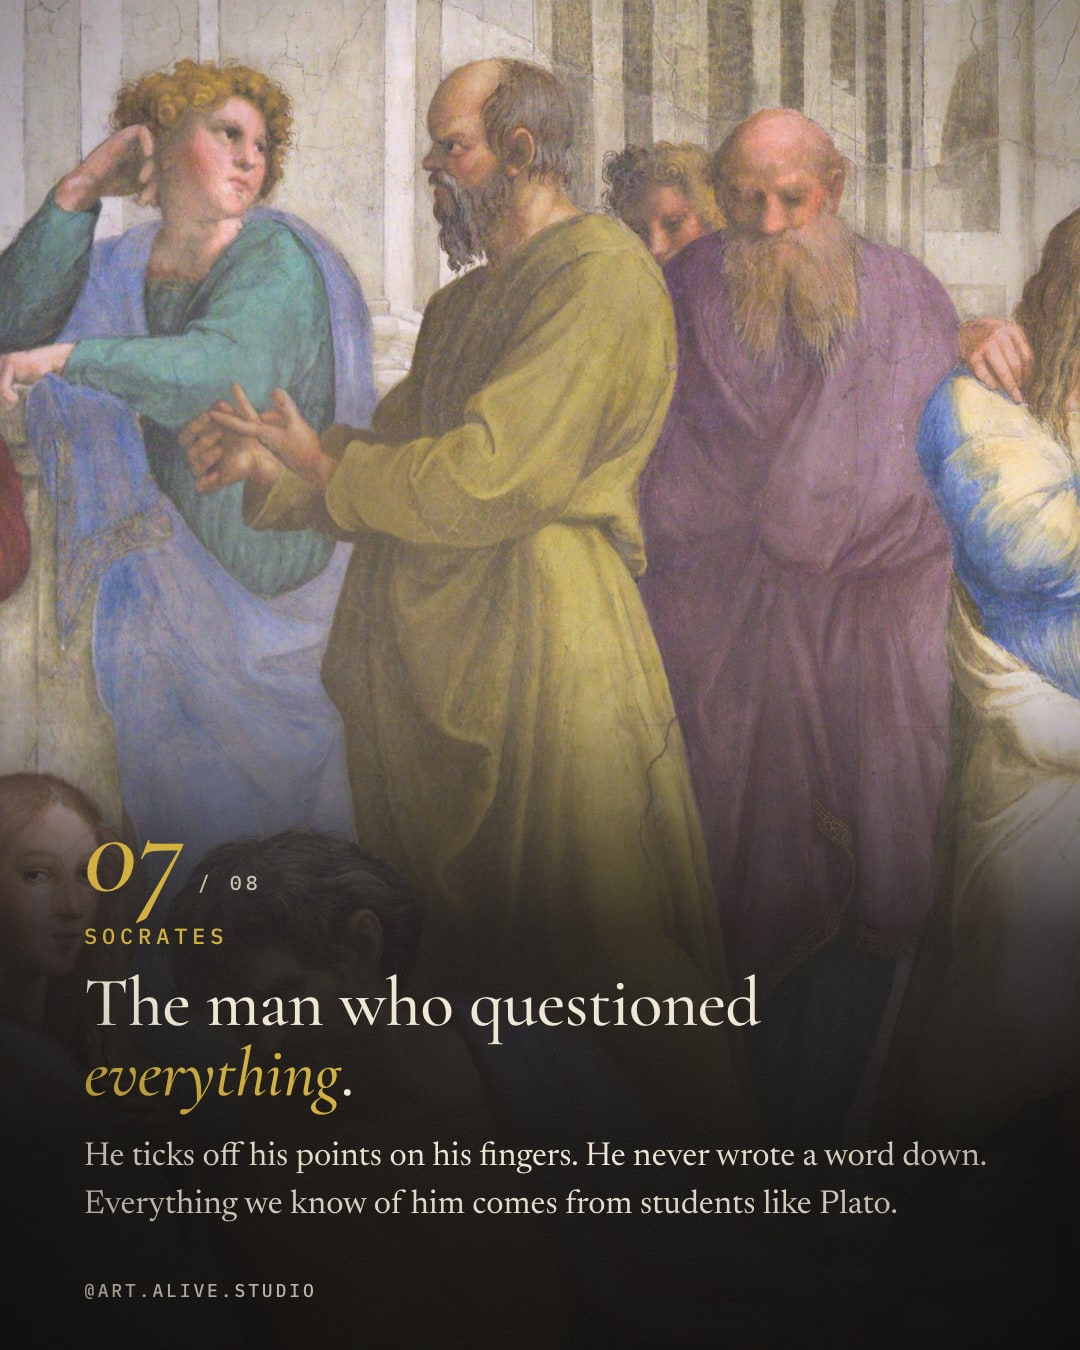
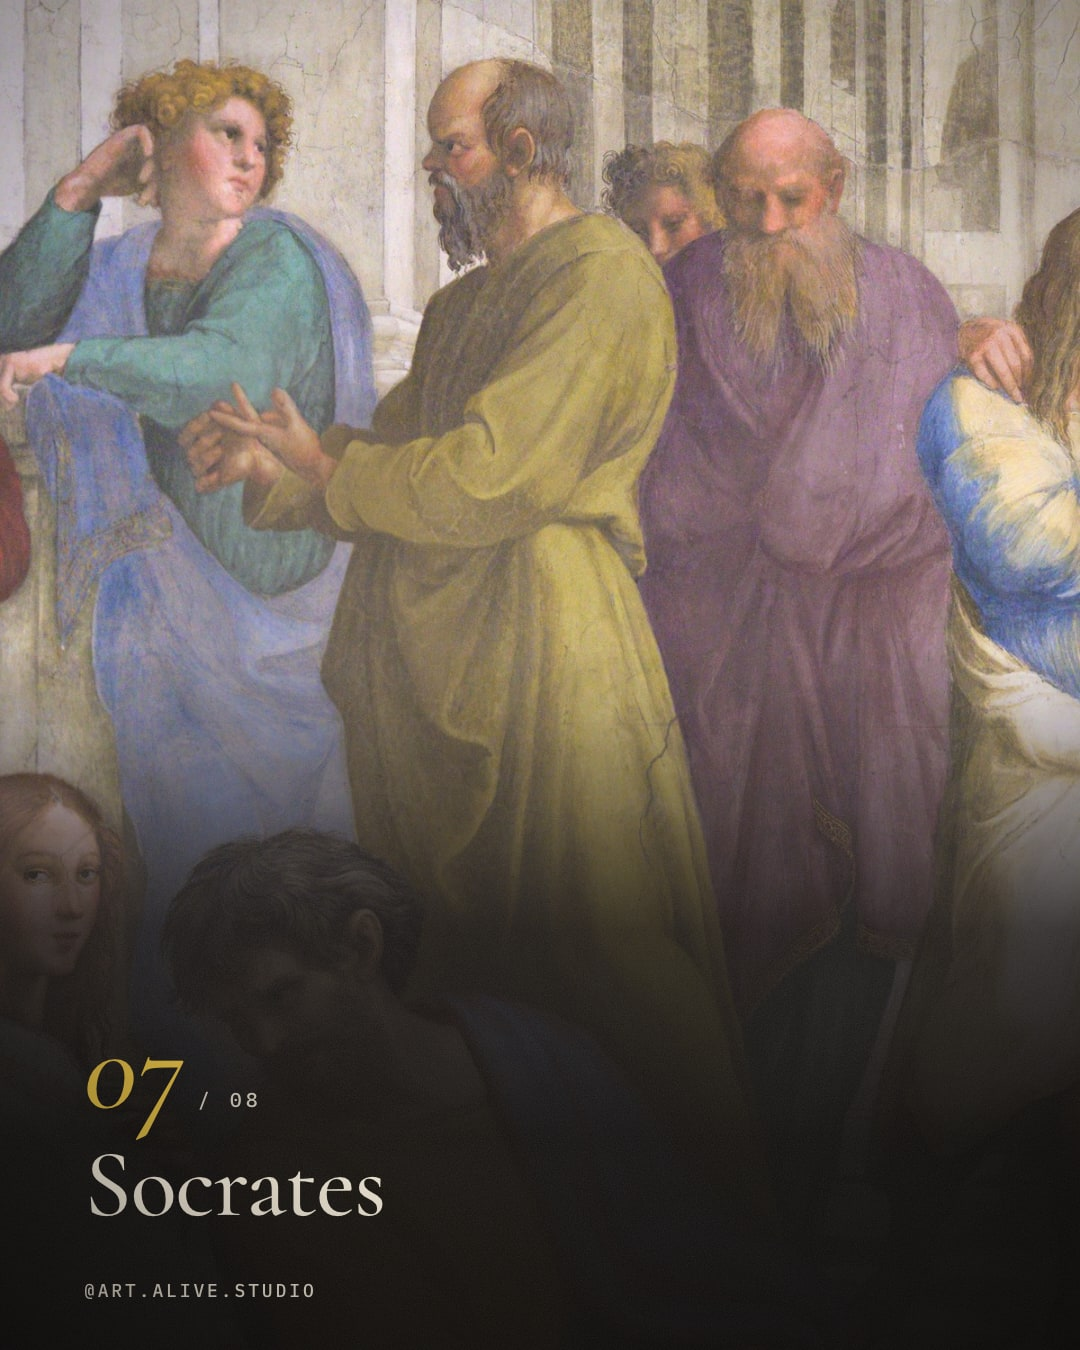
School of Athens: names-only figure slides, slide 2 hook, crowd above the cover text, per-slide captions (hub shows them per slide and puts them in caption.txt)

Changed region(s): [[0.0611, 0.6222, 0.9167, 0.9022], [0.3361, 0.7156, 0.7028, 0.7778]]

diff --git a/channels/art-history/carousels/06-raphael-school-of-athens/slides.html b/channels/art-history/carousels/06-raphael-school-of-athens/slides.html
@@ -1,9 +1,12 @@
 <!doctype html><html><head><meta charset="utf-8"><link rel="stylesheet" href="../_brand/brand.css">
 <style>
   /* "Who's who" style: one numbered figure per slide, full-bleed crop, then a map that numbers them all. */
-  .s-cover .bleed { object-position: 50% 40%; }
-  .s-cover.shade-bottom::after { height: 880px; background: linear-gradient(transparent, rgba(13,11,9,.78) 42%, rgba(13,11,9,.96) 72%); }
+  /* cover: the whole crowd sits above the text, image fades into black */
+  .s-cover .bleed { inset: 0 0 auto 0; height: 790px; object-position: 50% 50%; -webkit-mask-image: linear-gradient(#000 84%, transparent); mask-image: linear-gradient(#000 84%, transparent); }
+
   .s-cover .kicker, .s-cover .h-xl { text-shadow: 0 2px 24px rgba(0,0,0,.6); }
+
+  .y { color: var(--gold); }
 
   /* the who card */
   .who .bleed { object-position: 50% 30%; }
@@ -12,12 +15,14 @@
   .who .no b { font: italic 500 120px/.8 var(--display); color: var(--gold); text-shadow: 0 4px 30px rgba(0,0,0,.55); }
   .who .no span { font: 500 20px/1 var(--mono); letter-spacing: .2em; color: var(--paper); opacity: .8; }
   .who .who-name { font: 500 22px/1.3 var(--mono); letter-spacing: .22em; text-transform: uppercase; color: var(--gold); }
-  .who .h-m { margin-top: 18px; }
+  .who .h-m { margin-top: 0; }
+  .who .h-m em { color: var(--gold); }
+  .who-big { font: 500 96px/.95 var(--display); letter-spacing: -.015em; }
 
   /* the map */
-  .s-map .frame { position: absolute; left: var(--pad); right: var(--pad); top: 110px; height: 661px; }
+  .s-map .frame { position: absolute; left: var(--pad); right: var(--pad); top: 230px; height: 661px; }
   .disc { position: absolute; z-index: 37; width: 38px; height: 38px; margin: -19px 0 0 -19px; border-radius: 50%; background: var(--gold); color: var(--ink); font: 600 18px/38px var(--mono); text-align: center; box-shadow: 0 0 0 3px rgba(13,11,9,.6), 0 6px 16px rgba(0,0,0,.5); }
-  .key { grid-auto-flow: column; grid-template-rows: repeat(4, auto); position: absolute; left: var(--pad); right: var(--pad); top: 832px; z-index: 35; display: grid; grid-template-columns: 1fr 1fr; gap: 8px 40px; list-style: none; }
+  .key { grid-auto-flow: column; grid-template-rows: repeat(4, auto); position: absolute; left: var(--pad); right: var(--pad); top: 952px; z-index: 35; display: grid; grid-template-columns: 1fr 1fr; gap: 8px 40px; list-style: none; }
   .key li { font: 400 25px/1.3 var(--body); display: flex; gap: 14px; align-items: center; }
   .key li i { font: 600 15px/28px var(--mono); font-style: normal; width: 28px; height: 28px; border-radius: 50%; border: 2px solid var(--gold); color: var(--gold); text-align: center; flex: none; }
   .s-map .block.bottom { bottom: 120px; }
@@ -30,7 +35,7 @@
   <div class="block bottom">
     <div class="kicker">The greatest gathering in history</div>
     <h1 class="h-xl">Every genius in one <em>room</em>.</h1>
-    <p class="lede"><i>What if the greatest minds in history had all walked into the same room?</i> Raphael painted them together. But can you recognize them?</p>
+    <p class="lede"><i>What if the greatest minds in history had all walked into the same room?</i> <span class="y">Raphael</span> painted them together. <span class="y">But can you recognize them?</span></p>
   </div>
 </section>
 
@@ -39,9 +44,8 @@
   <img class="bleed" src="img/who_plato.jpg">
   <div class="block bottom">
     <div class="no"><b>01</b><span>/ 08</span></div>
-    <div class="who-name">Plato &amp; Aristotle</div>
-    <h2 class="h-m">One points up. One points <em>down</em>.</h2>
-    <p class="copy">Plato aims at the heavens: ideas come first. Aristotle holds his palm over the earth: start with what you can see. Their whole argument, in two hands.</p>
+    <h2 class="h-m"><em>Plato and Aristotle</em>, you all know. But what about the rest?</h2>
+    <p class="copy">Seven more famous minds are hiding in here. And slide 9 holds a surprise.</p>
   </div>
 </section>
 
@@ -50,9 +54,7 @@
   <img class="bleed" src="img/who_diogenes.jpg" style="object-position:40% 30%">
   <div class="block bottom">
     <div class="no"><b>02</b><span>/ 08</span></div>
-    <div class="who-name">Diogenes</div>
-    <h2 class="h-m">The man who rejected <em>everything</em>.</h2>
-    <p class="copy">He lived in a clay jar and mocked wealth and power. Raphael gives him the steps to himself, sprawled out like he owns them.</p>
+    <h2 class="who-big">Diogenes</h2>
   </div>
 </section>
 
@@ -61,9 +63,7 @@
   <img class="bleed" src="img/who_pythagoras.jpg">
   <div class="block bottom">
     <div class="no"><b>03</b><span>/ 08</span></div>
-    <div class="who-name">Pythagoras</div>
-    <h2 class="h-m">The man who heard the <em>numbers</em>.</h2>
-    <p class="copy">He writes in his book while a boy holds up a slate of musical ratios. He believed the whole universe ran on number and harmony.</p>
+    <h2 class="who-big">Pythagoras</h2>
   </div>
 </section>
 
@@ -72,9 +72,7 @@
   <img class="bleed" src="img/who_euclid.jpg">
   <div class="block bottom">
     <div class="no"><b>04</b><span>/ 08</span></div>
-    <div class="who-name">Euclid</div>
-    <h2 class="h-m">The man drawing on the <em>floor</em>.</h2>
-    <p class="copy">Bent over a slate with a compass, students crowding in. His face is said to be Bramante's, the Pope's architect.</p>
+    <h2 class="who-big">Euclid</h2>
   </div>
 </section>
 
@@ -83,9 +81,7 @@
   <img class="bleed" src="img/who_heraclitus.jpg">
   <div class="block bottom">
     <div class="no"><b>05</b><span>/ 08</span></div>
-    <div class="who-name">Heraclitus</div>
-    <h2 class="h-m">The loneliest man in the <em>room</em>.</h2>
-    <p class="copy">Alone, chin on fist, lost in thought. His face is widely read as Michelangelo's, who was painting the Sistine ceiling nearby at the same time.</p>
+    <h2 class="who-big">Heraclitus</h2>
   </div>
 </section>
 
@@ -94,9 +90,7 @@
   <img class="bleed" src="img/who_globes.jpg">
   <div class="block bottom">
     <div class="no"><b>06</b><span>/ 08</span></div>
-    <div class="who-name">Zoroaster &amp; Ptolemy</div>
-    <h2 class="h-m">Two men holding the <em>world</em>.</h2>
-    <p class="copy">Traditionally, the bearded Zoroaster holds the heavens, a sphere of stars. Ptolemy, crowned and turned away, holds the Earth.</p>
+    <h2 class="who-big">Zoroaster &amp; Ptolemy</h2>
   </div>
 </section>
 
@@ -105,9 +99,7 @@
   <img class="bleed" src="img/who_socrates.jpg">
   <div class="block bottom">
     <div class="no"><b>07</b><span>/ 08</span></div>
-    <div class="who-name">Socrates</div>
-    <h2 class="h-m">The man who questioned <em>everything</em>.</h2>
-    <p class="copy">He ticks off his points on his fingers. He never wrote a word down. Everything we know of him comes from students like Plato.</p>
+    <h2 class="who-big">Socrates</h2>
   </div>
 </section>
 
@@ -116,9 +108,7 @@
   <img class="bleed" src="img/who_raphael.jpg" style="object-position:60% 20%">
   <div class="block bottom">
     <div class="no"><b>08</b><span>/ 08</span></div>
-    <div class="who-name">Raphael</div>
-    <h2 class="h-m">The painter hid himself <em>inside</em>.</h2>
-    <p class="copy">The young man in the black cap is Raphael, in his twenties, among the philosophers. He's looking straight back at you.</p>
+    <h2 class="who-big">Raphael</h2>
   </div>
 </section>
 
@@ -134,10 +124,6 @@
     <li><i>1</i>Plato &amp; Aristotle</li><li><i>2</i>Diogenes</li><li><i>3</i>Pythagoras</li><li><i>4</i>Euclid</li>
     <li><i>5</i>Heraclitus</li><li><i>6</i>Zoroaster &amp; Ptolemy</li><li><i>7</i>Socrates</li><li><i>8</i>Raphael</li>
   </ol>
-  <div class="block bottom">
-    <h2 class="h-m">One wall. A world of <em>ideas</em>.</h2>
-    <p class="copy">500 years on, people still argue who's who. Which one would you want to meet?</p>
-  </div>
 </section>
 
 <script src="../_brand/brand.js"></script></body></html>

diff --git a/apps/hub/src/components/ProfileMock.tsx b/apps/hub/src/components/ProfileMock.tsx
@@ -5,7 +5,7 @@ import type { ChannelProfile } from "@/lib/data";
 
 type Base = { key: string; no: string; title: string; role: string; href: string };
 export type Tile =
-  | (Base & { kind: "carousel"; poster: string; slides: string[]; caption: string; hashtags: string[] })
+  | (Base & { kind: "carousel"; poster: string; slides: string[]; caption: string; slideCaptions?: string[]; hashtags: string[] })
   | (Base & { kind: "reel"; video: string; poster?: string })
   | (Base & { kind: "missing" });
 
@@ -51,6 +51,7 @@ function Post({ t, handle, avatar, onBack }: { t: Exclude<Tile, { kind: "missing
 
   const n = t.slides.length;
   const tags = t.hashtags.map((h) => "#" + h.replace(/^#/, "")).join(" ");
+  const caption = t.slideCaptions?.[cur] || t.caption;
   return (
     <div className="pf-post">
       <div className="pf-bar"><button className="pf-icon" onClick={onBack} aria-label="Back to profile">{I.back}</button><span className="pf-bar-title">Posts</span><span className="pf-icon" /></div>
@@ -65,8 +66,8 @@ function Post({ t, handle, avatar, onBack }: { t: Exclude<Tile, { kind: "missing
         <span className="pf-dots">{t.slides.map((s, i) => <i key={s} className={i === cur ? "on" : ""} />)}</span><span className="pf-icon">{I.save}</span></div>
       <div className="pf-caption">
         {more
-          ? <p><b>{handle}</b> {t.caption}<br /><br /><span className="pf-tags">{tags}</span></p>
-          : <p><b>{handle}</b> {t.caption.split("\n")[0]}… <button onClick={() => setMore(true)}>more</button></p>}
+          ? <p><b>{handle}</b> {caption}<br /><br /><span className="pf-tags">{tags}</span></p>
+          : <p><b>{handle}</b> {caption.split("\n")[0]}… <button onClick={() => setMore(true)}>more</button></p>}
       </div>
     </div>
   );

diff --git a/apps/hub/src/app/c/[slug]/page.tsx b/apps/hub/src/app/c/[slug]/page.tsx
@@ -18,7 +18,12 @@ export default async function CarouselPage({ params }: { params: Promise<{ slug:
     <div className="viewer">
       <Link className="back mono" href="/">← All carousels</Link>
       <Viewer c={c}>
-        <div className="section"><h3 className="mono">Caption <CopyButton text={c.caption} /></h3><div className="caption">{c.caption}</div></div>
+        {c.slides.some((s) => s.caption)
+          ? <div className="section"><h3 className="mono">Captions, one per slide</h3>
+              {c.slides.filter((s) => s.caption).map((s) => (
+                <div key={s.n} className="slidecap"><h4 className="mono small">Slide {String(s.n).padStart(2, "0")} <CopyButton text={s.caption} /></h4><div className="caption">{s.caption}</div></div>))}
+            </div>
+          : <div className="section"><h3 className="mono">Caption <CopyButton text={c.caption} /></h3><div className="caption">{c.caption}</div></div>}
         <div className="section"><h3 className="mono">Hashtags <CopyButton text={tagLine(c)} /></h3><div className="tags">{tagLine(c)}</div></div>
         {c.slides.length > 0 && (
           <div className="section"><h3 className="mono">Running order</h3>

diff --git a/apps/hub/src/app/ch/[channel]/profile/page.tsx b/apps/hub/src/app/ch/[channel]/profile/page.tsx
@@ -23,7 +23,7 @@ export default async function ProfilePage({ params }: { params: Promise<{ channe
       const base = { key: `${s.slug}-${role}`, no: s.no, title: s.title, role: ROLE_LABEL[role], href: storyHref(s) };
       if (role === "carousel") {
         const c = piece?.carousel ? getCarousel(piece.carousel) : undefined;
-        if (c?.renders.length) tiles.push({ ...base, kind: "carousel", poster: asset(c.renders[0]), slides: c.renders.map(asset), caption: c.caption, hashtags: c.hashtags });
+        if (c?.renders.length) tiles.push({ ...base, kind: "carousel", poster: asset(c.renders[0]), slides: c.renders.map(asset), caption: c.caption, slideCaptions: c.slides.map((s) => s.caption), hashtags: c.hashtags });
         else tiles.push({ ...base, kind: "missing" });
         continue;
       }

diff --git a/apps/hub/src/lib/data.ts b/apps/hub/src/lib/data.ts
@@ -4,7 +4,7 @@ import hubData from "@/data/hub.json";
 import profileData from "@/data/profile.json";
 import { StorySchema, type Story } from "./schema";
 
-export type Slide = { n: number; type: string; headline: string; alt: string };
+export type Slide = { n: number; type: string; headline: string; alt: string; caption: string };
 export type Carousel = {
   slug: string; no: string; title: string; artist: string; year: string; museum: string;
   videoFormat: string; hook: string; caption: string; hashtags: string[]; notes: string;

diff --git a/apps/hub/src/components/Viewer.tsx b/apps/hub/src/components/Viewer.tsx
@@ -72,7 +72,7 @@ export function Viewer({ c, children }: { c: Carousel; children: React.ReactNode
           <div className="count">{cur + 1} / {n}</div>
         </div>
         <div className="pips">{c.renders.map((r, i) => <i key={r} className={i === cur ? "on" : ""} />)}</div>
-        <div className="cap"><b>arthistory</b> {c.caption}</div>
+        <div className="cap"><b>arthistory</b> {c.slides[cur]?.caption || c.caption}</div>
       </div>
 
       <div className="info">

diff --git a/apps/hub/src/app/globals.css b/apps/hub/src/app/globals.css
@@ -353,3 +353,8 @@ details summary { cursor: pointer; color: var(--muted); }
 .pf-reel video { cursor: pointer; }
 .pf-page > * { min-width: 0; }
 .pf-intro code { overflow-wrap: anywhere; }
+
+/* per-slide captions */
+.slidecap { margin-top: 14px; padding-top: 12px; border-top: 1px solid var(--line); }
+.slidecap h4 { margin: 0 0 6px; display: flex; align-items: center; gap: 10px; color: var(--gold); }
+.pf-caption p, .phone .cap { white-space: pre-line; }
